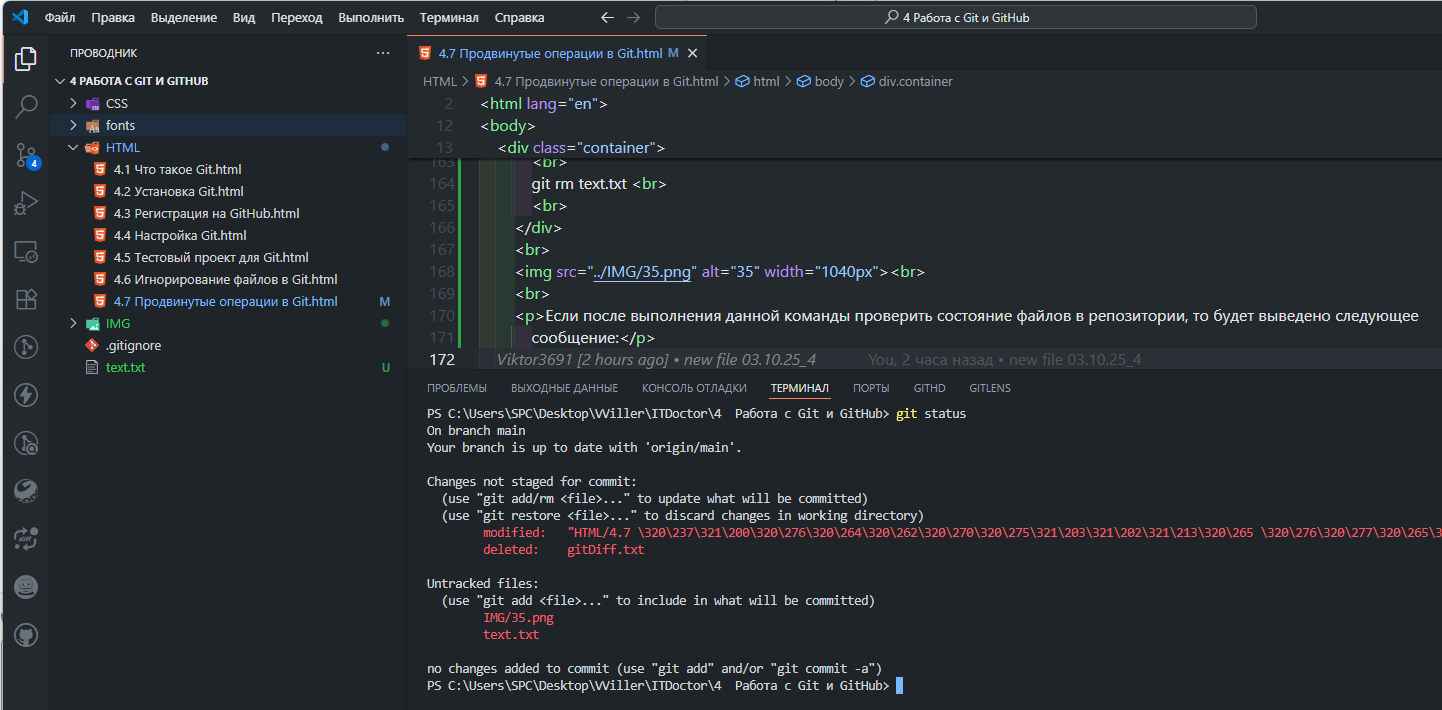
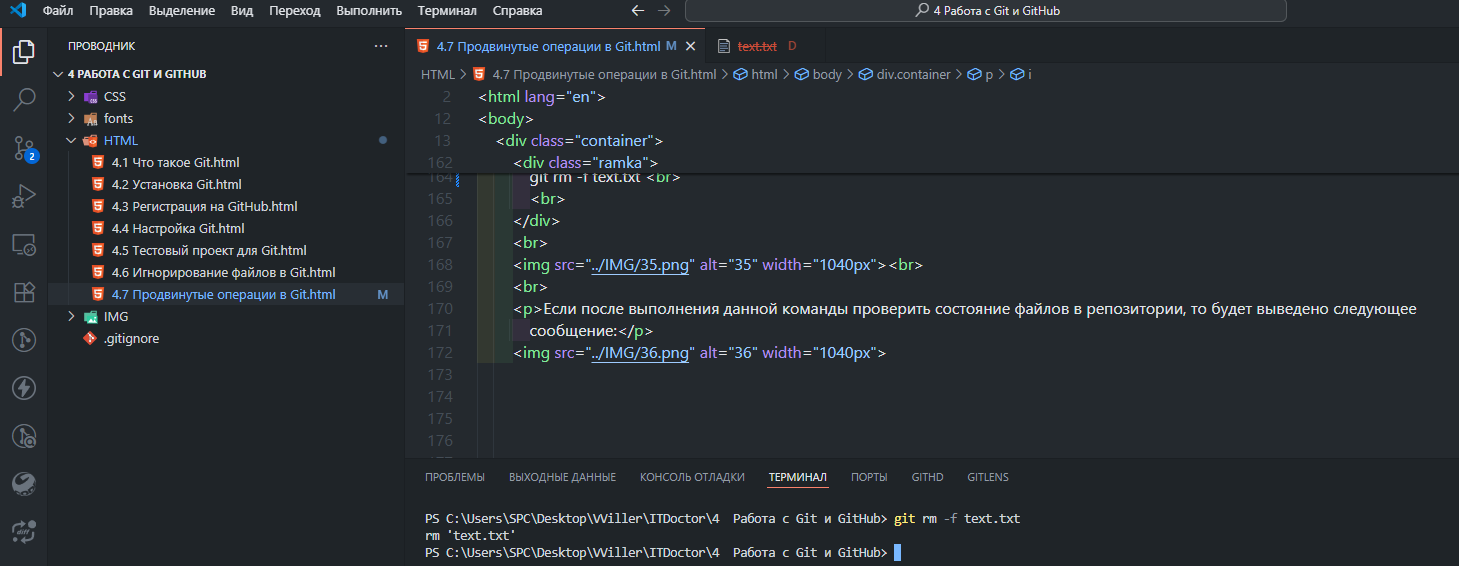
new file 031025_7

Changed region(s): [[0.0, 0.0, 1.0, 0.9611], [0.2809, 0.811, 0.7178, 0.9912], [0.6553, 0.4806, 0.7802, 0.5106]]

diff --git a/HTML/4.7 Продвинутые операции в Git.html b/HTML/4.7 Продвинутые операции в Git.html
@@ -158,21 +158,37 @@
             командой <i>status</i>, он будет отображаться в категории <i>'Changes not staged for commit'</i> как
             измененный, но не
             проиндексированный файл. Чтобы наверняка удалить ненужный нам файл следует использовать команду <i>git
-                rm:</i></p>
+                rm -f:</i></p>
         <div class="ramka">
             <br>
-            git rm text.txt <br>
+            git rm -f text.txt <br>
             <br>
         </div>
         <br>
         <img src="../IMG/35.png" alt="35" width="1040px"><br>
         <br>
-        <p>Если после выполнения данной команды проверить состояние файлов в репозитории, то будет выведено следующее
-            сообщение:</p>
+        <p>Команда «git rm -f text.txt» в Git позволяет удалить из отслеживаемых индексированный файл text.txt из папки.
+            Флаг «-f» в этой команде заставляет удалять файлы с ограничениями, которые препятствуют обычному удалению.
+        </p>
         <img src="../IMG/36.png" alt="36" width="1040px">
 
+        <h2>Переименование файлов в Git</h2>
 
-
+        <p>Для переименования файлов в Git используется команда mv. Мы указываем в ней старое имя файла и новое имя в
+            следующем
+            порядке:</p>
+        <div class="ramka">ТЕРМИНАЛ <br>
+            <br>
+            git mv old.txt new.txt<br>
+            <br>
+        </div>
+        <p>После проверки статуса файлов в терминале будет выведено сообщение о переименовании файла:</p>
+        <div class="ramka">ТЕРМИНАЛ <br>
+            <br>
+            Changes to be committed: <br>
+            renamed: old.txt -&gt; new.txt<br>
+            <br>
+        </div>
 
 
 
